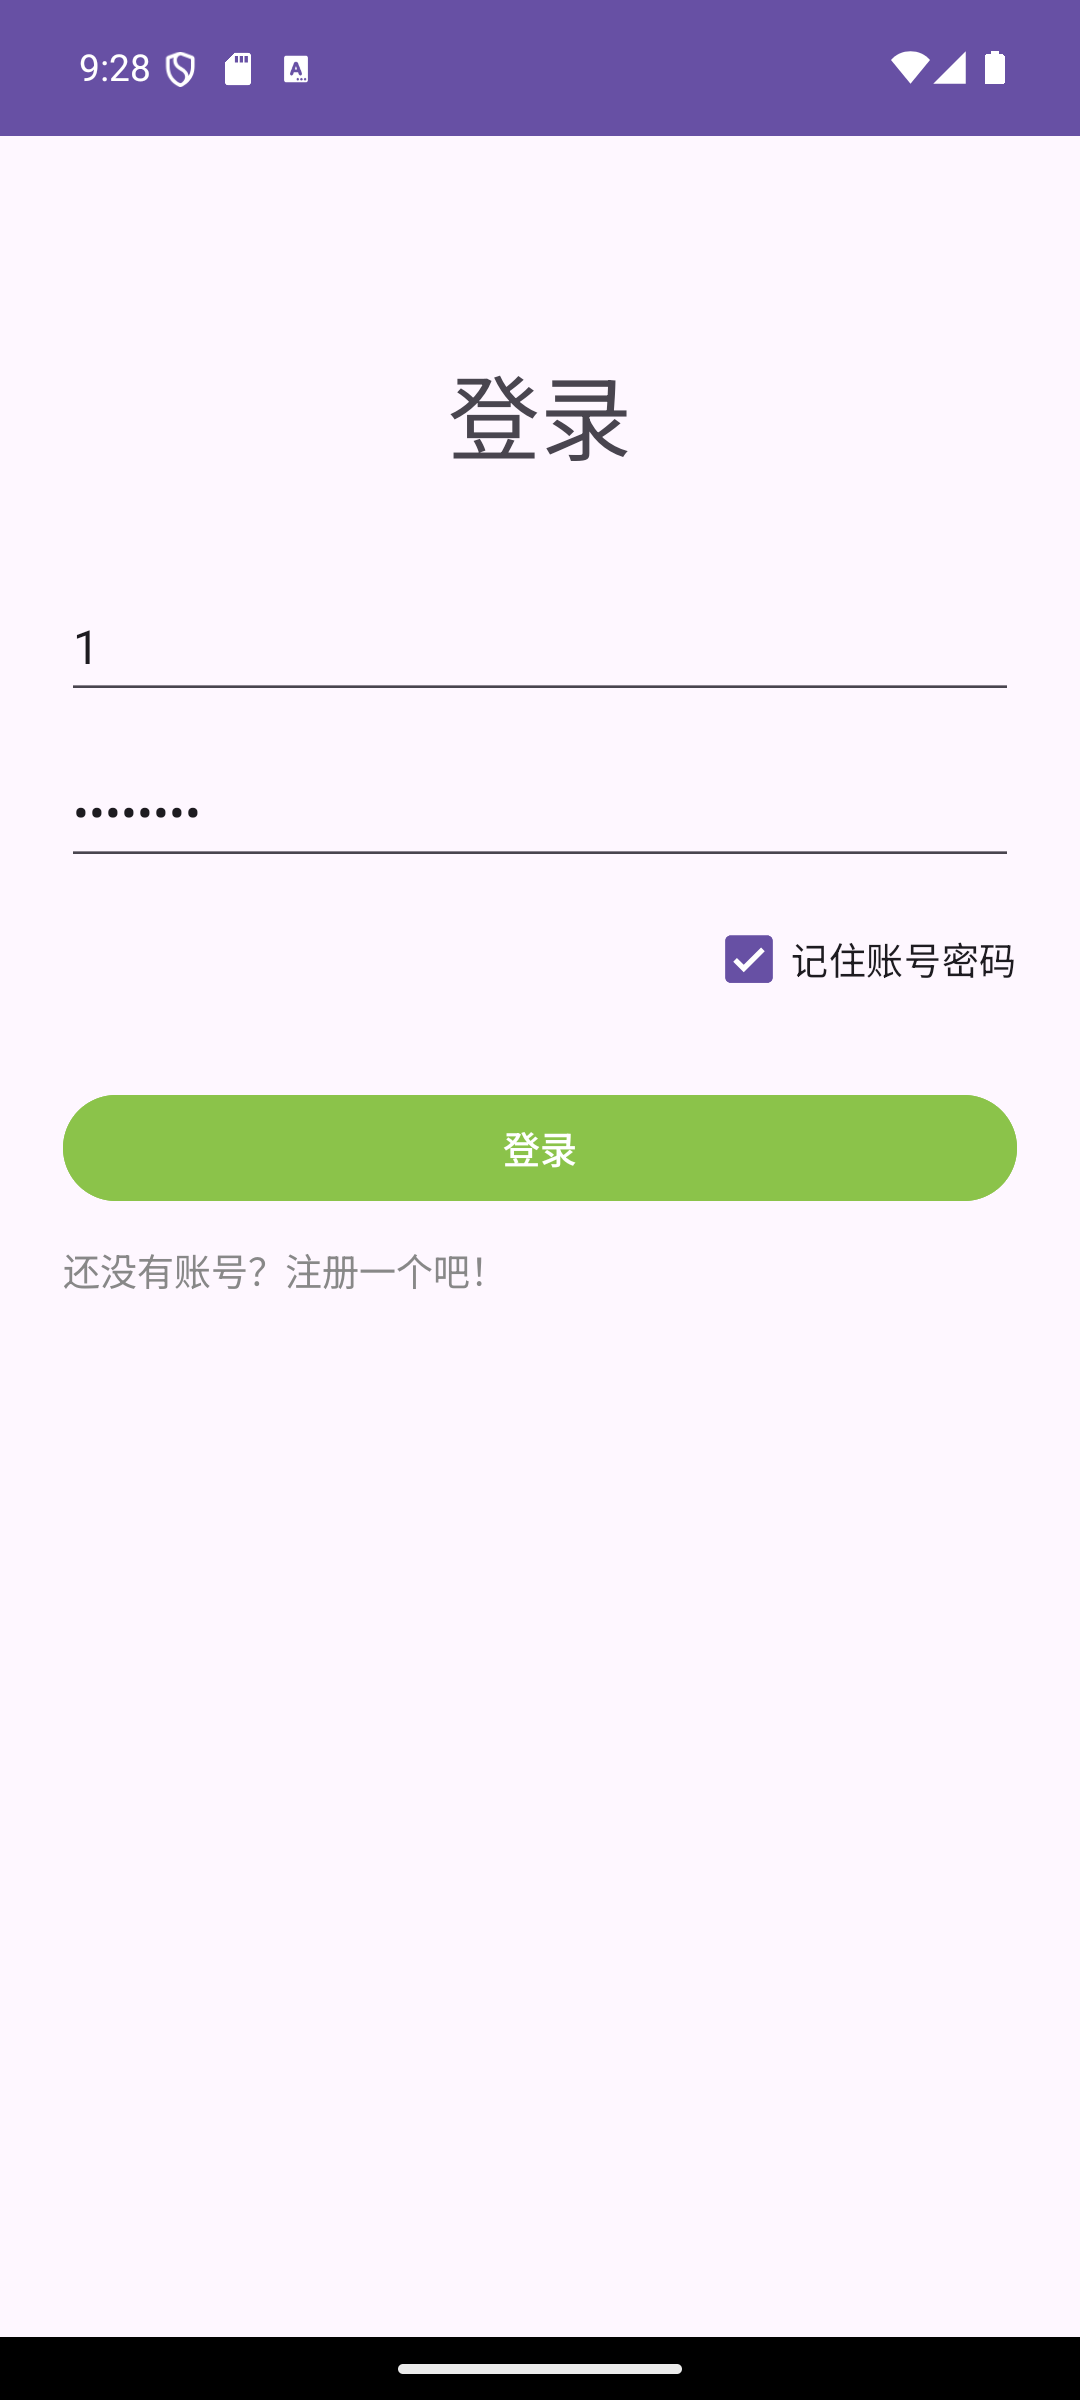
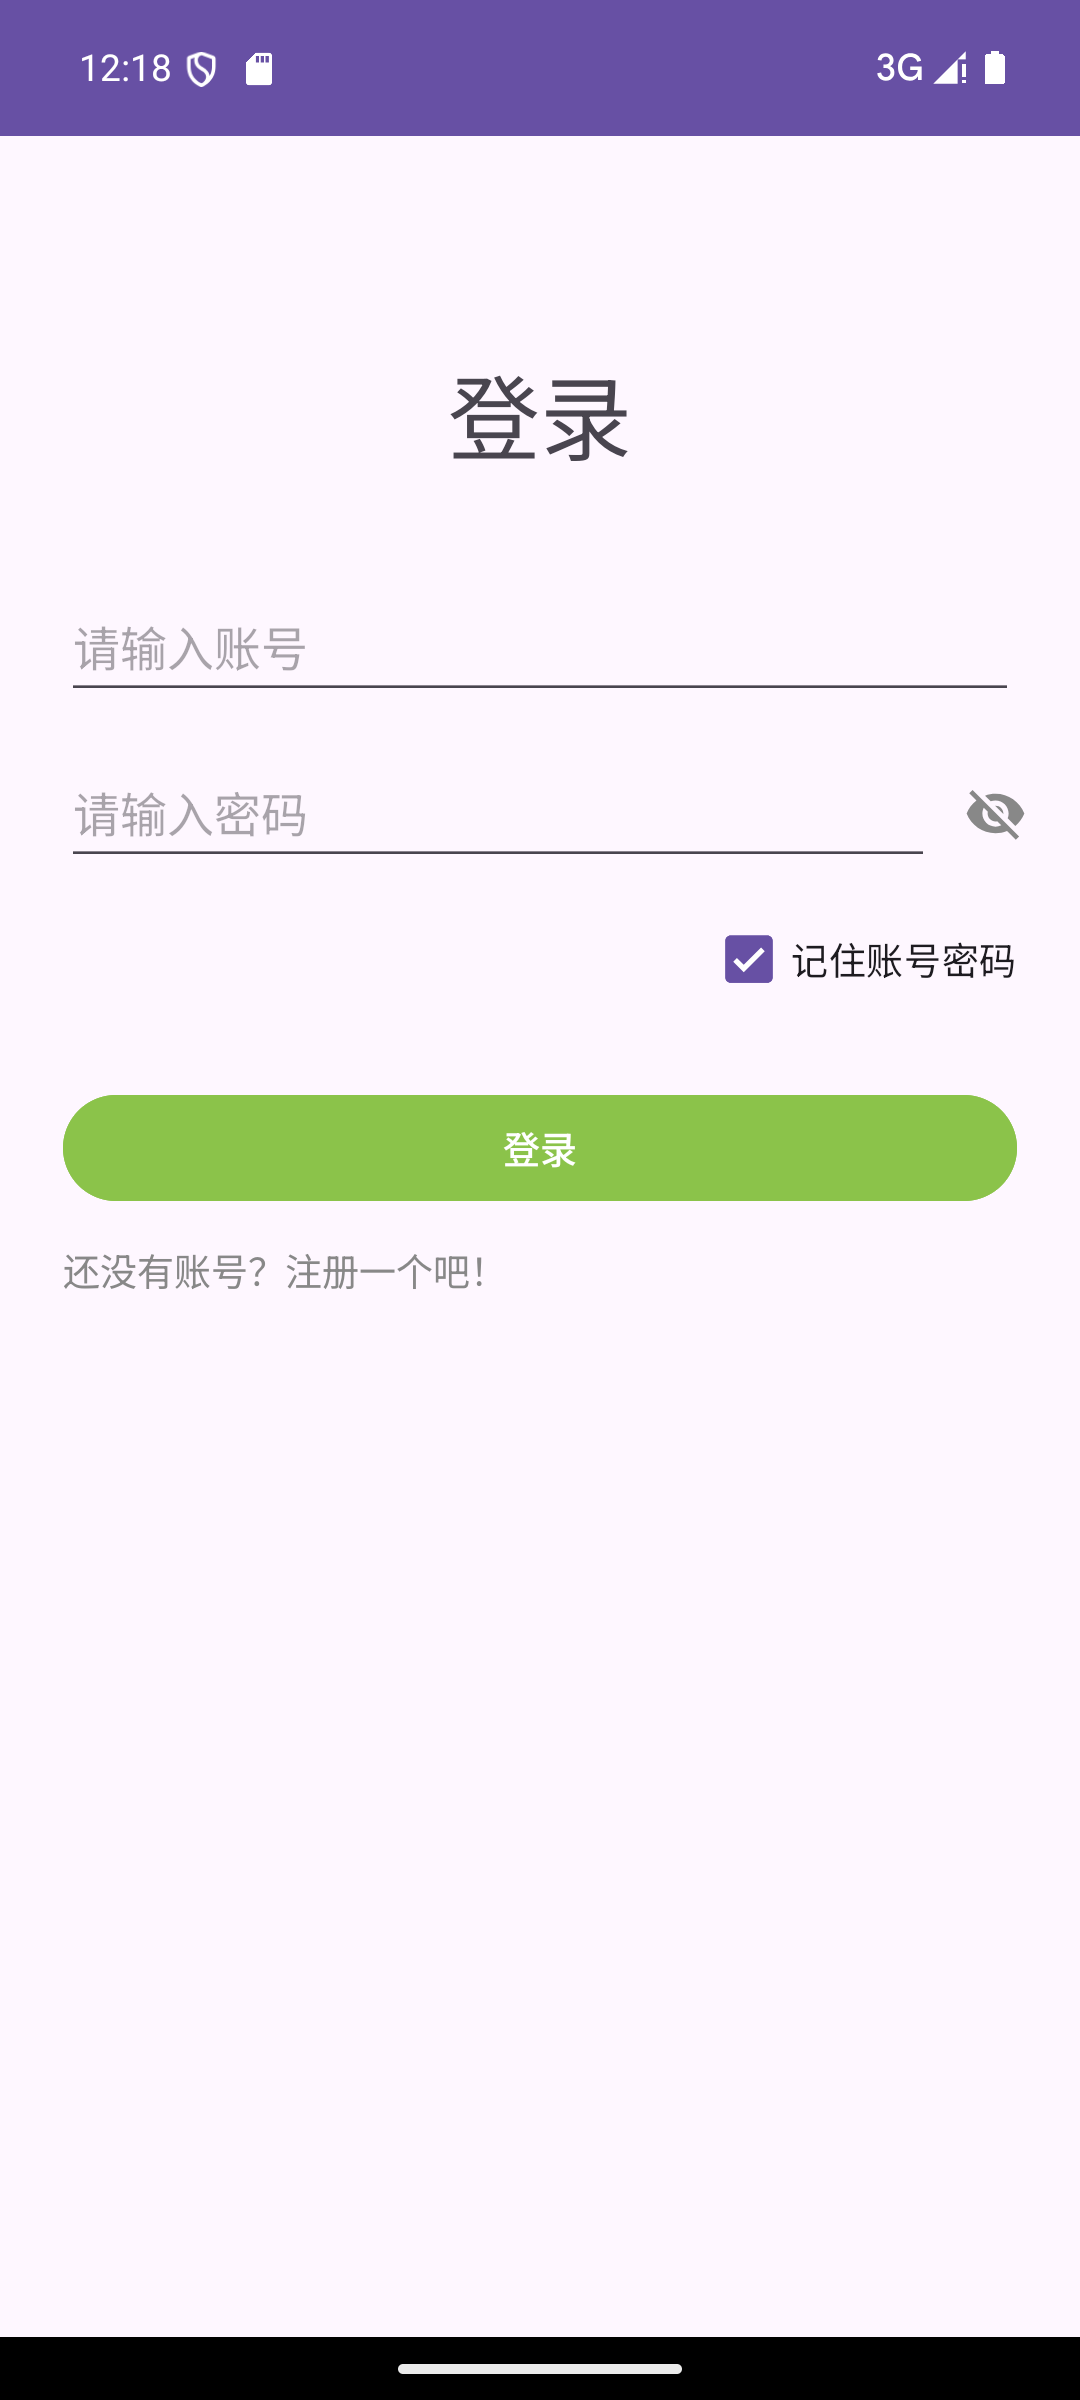
README 更新：注册页输入提示与密码可见、新增注册页截图

diff --git a/README.md b/README.md
@@ -11,7 +11,9 @@
 
 - **账号体系**
   - 独立登录页、注册页
-  - 多用户支持（SQLite `users` 表，可注册任意多个账号）
+  - 多用户支持（SQLite `users` 表，可注册任意多个账号，账号查重）
+  - 密码可见切换（眼睛图标，登录页与注册页均支持）
+  - 注册页输入提示（账号 ≤ 12 位、密码 ≥ 6 位，规则前置告知）
   - 记住密码（复选可选）
   - 已登录自动跳过登录页
   - 退出登录（二次确认弹窗）
@@ -39,9 +41,9 @@
 
 ## 截图
 
-| 登录 | 诗词列表 |
+| 登录 | 注册 |
 |---|---|
-| ![登录](screenshots/login.png) | ![诗词列表](screenshots/list.png) |
+| ![登录](screenshots/login.png) | ![注册](screenshots/register.png) |
 
 | 首页（默认） | 按朝代筛选 |
 |---|---|
@@ -59,17 +61,17 @@
 |---|---|
 | ![收藏详情](screenshots/detail_fav.png) | ![收藏列表](screenshots/favorite.png) |
 
-| 浏览历史 |
-|---|
-| ![浏览历史](screenshots/history.png) |
+| 浏览历史 | 历史为空（清空后） |
+|---|---|
+| ![浏览历史](screenshots/history.png) | ![历史为空](screenshots/history_empty.png) |
 
 | 密码可见切换 | 关于 |
 |---|---|
 | ![密码可见](screenshots/login_visible.png) | ![关于](screenshots/about.png) |
 
-| 退出登录（二次确认） |
-|---|
-| ![退出确认](screenshots/logout-dialog.png) |
+| 退出登录（二次确认） | 诗词列表 |
+|---|---|
+| ![退出确认](screenshots/logout-dialog.png) | ![诗词列表](screenshots/list.png) |
 
 ---
 
@@ -144,6 +146,7 @@ app/src/main/
 | 2026-11-23 | 完成昵称修改、清空浏览历史、密码可见切换、关于页面 |
 | 2026-11-23 | 首页改版：搜索入口、动态问候语、按朝代筛选（ChipGroup） |
 | 2026-11-24 | 完成关键词搜索页（like 模糊查询，实时搜索）；详情页新增主题标签 |
+| 2026-11-26 | 修复注册重复提交与空用户名问题；登录页预填改为 onResume；补齐注册页输入提示与密码可见切换 |
 
 ---
 
